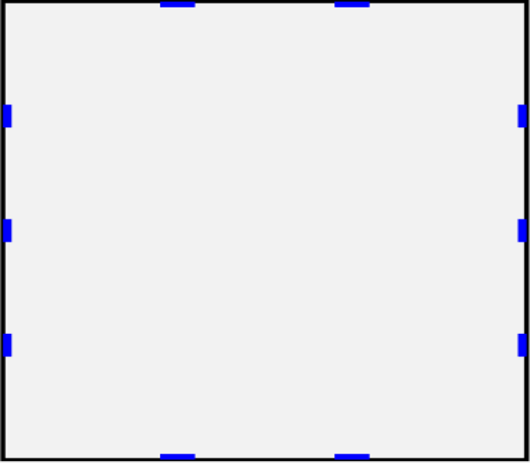
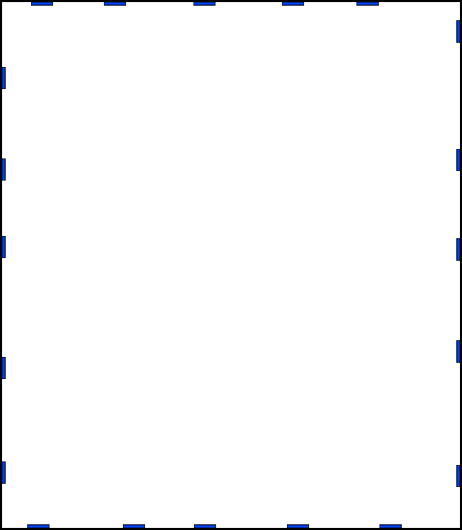
koordinate system fix

Changed region(s): [[0.0, 0.0, 1.0, 1.0]]

diff --git a/ARdrone13/src/dtu/grp13/drone/position/PositionFrame.java b/ARdrone13/src/dtu/grp13/drone/position/PositionFrame.java
@@ -1,5 +1,6 @@
 package dtu.grp13.drone.position;
 
+import java.awt.Color;
 import java.awt.Dimension;
 import java.awt.FlowLayout;
 import java.awt.Graphics;
@@ -30,11 +31,11 @@ public class PositionFrame {
 		frame.setResizable(false);
 		frame.setLocation(1000, 0);
 		frame.setVisible(true);
-		origo = new Vector2(0, 450);
+		origo = new Vector2(0, 523);
 		flip = new Matrix2(2,2, 1,0,
 								0,-1);
-		scale = new Matrix2(2,2, 0.4, 0,
-								 0,	 0.4);
+		scale = new Matrix2(2,2, 0.5, 0,
+								 0,	 0.5);
 		transformValue = flip.dot(scale);
 		frame.pack();
 	}
@@ -79,7 +80,8 @@ public class PositionFrame {
 			if(coor != null) {
 				int x = (int)coor.getX();
 				int y = (int)coor.getY();
-				g.drawOval(x, y, 10, 10);
+				g.setColor(new Color(255, 0, 0));
+				g.fillOval(x, y, 12, 12);
 			}
 		}
 	}

diff --git a/ARdrone13/src/dtu/grp13/drone/core/Main.java b/ARdrone13/src/dtu/grp13/drone/core/Main.java
@@ -22,7 +22,7 @@ public class Main {
 		System.loadLibrary(Core.NATIVE_LIBRARY_NAME);
 		ModeController mc = new ModeController(new FrameProcess());
 		PositionFrame xFrame = new PositionFrame();
-		xFrame.setDronePosition(new Vector2(500,500));
+		xFrame.setDronePosition(new Vector2(0,108));
 //		mc.useWebcam();
 //		mc.useDrone(new IDroneSetup() {
 //			
